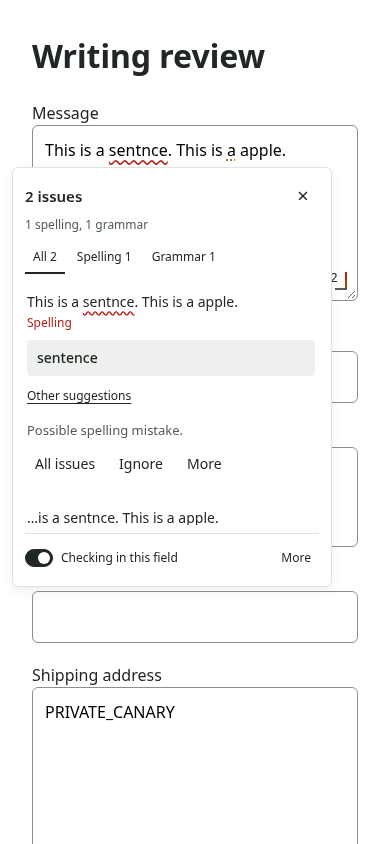
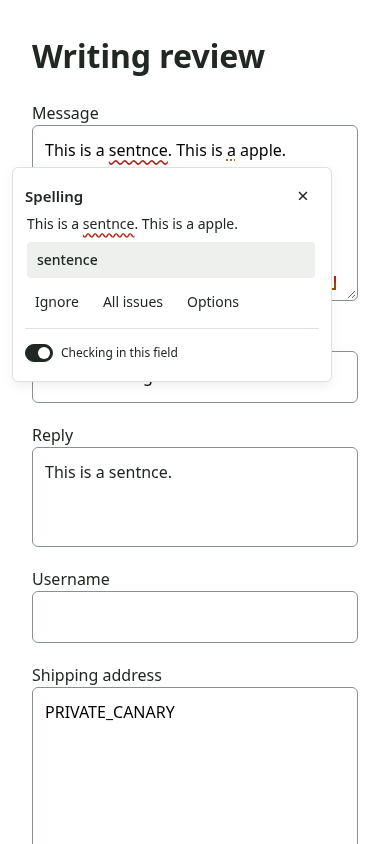
docs(extension): show focused menu and inside-field count

diff --git a/documentation/design/screenshots/browser-extension/README.md b/documentation/design/screenshots/browser-extension/README.md
@@ -2,9 +2,9 @@
 
 ## Margin writing — 27 November 2026
 
-Unsigned product `1.11.37`, source `2896e4126189ca3d965f269e95d1c8e925bbb7f9`
+Unsigned product `1.11.37`, source `dd763c756582562d049cd04dc272478b41b65354`
 on development `79fd5d243`. Chrome ZIP SHA-256:
[2 lines of base64/hex data omitted]
 The accompanying feature PR records the exact reviewed head and checks. Installed
 Chromium `156.0.8078.4`, synthetic English fields, signed out and with Grove network
 requests blocked. These captures are local development evidence, not a store build.
@@ -15,13 +15,27 @@ requests blocked. These captures are local development evidence, not a store bui
 
 Overview is 900 × 720; corrections are 390 × 844; sidebar is 320 × 480. The
 right-angle margin mark carries the current field count. Spelling uses red,
-grammar amber and only a complete current zero uses green. The review remains a
-single unboxed list with one primary replacement, disclosed alternatives and a
-fixed field toggle below its scrolling region. Long lists and short sidebars
+grammar amber and only a complete current zero uses green. The overview remains an
+unboxed list. Selecting an issue switches to a compact correction menu without
+overview counts, filters or other issues. One fix, Ignore, All issues and a single
+Options disclosure replace the former stack of controls. Grammar keeps its useful
+explanation; spelling drops generic filler. Coverage warnings and field On/Off
+remain visible. Long lists and short sidebars
 scroll rather than forcing every issue onto the first screen. The synthetic
 `PRIVATE_CANARY` field is deliberately excluded from reading/checking.
 The compact hit target stays the same size on hover/focus; its native tooltip and
 accessible name provide the complete status without expanding across the editor.
+The mark sits wholly inside the field, clear of the resize handle/scrollbar and
+measured glyphs/caret. Crowded, obscured or unprovable geometry hides it rather than
+moving outside or changing host padding; Alt+Enter and the sidebar remain available.
+
+| Inside-field indicator                                                                                | Focused edit context menu                                                                             |
+| ----------------------------------------------------------------------------------------------------- | ----------------------------------------------------------------------------------------------------- |
+| ![Small semibold count and two category corner strokes inside the textarea](margin-indicator-390.png) | ![One correction, Ignore, All issues, one Options disclosure and field checking](margin-menu-390.png) |
+
+These are crops of the field and actual menu in the same 390px installed viewport,
+not mockups. Earlier count/filters-heavy menu captures remain in Git history at
+`4162c9a9d`; they are not the current design.
 
 The existing Grove palette, system type and mark remain; no new imagery or type
 was introduced. The pass removes coloured row rails, dot-separated copy, repeated
@@ -34,7 +48,9 @@ screenshots, geometry and axe checks provide the browser evidence instead.
 `tests/browser-extension-margin.test.mjs` checks counts/category/partial states,
 native Undo, field pause isolation, rich formatting, sensitive metadata exclusions,
 open shadow roots, CSS-hidden projection barriers, scoped sidebar actions,
-source-order filtering, focus and 280/320/390/768px overflow/accessibility. Native
+source-order filtering, compact selected-mode/Options/Escape, partial warnings,
+inside-input bounds, crowded-field keyboard recovery, focus and
+280/320/390/768px overflow/accessibility. Native
 Firefox `160.0` additionally passed temporary installation, signed-out offline
 Harper textarea checks, native sidebar and synthetic capture/search/reader-copy.
 That smoke does not qualify Firefox rich-text corrections or Undo. Chromium
@@ -44,8 +60,8 @@ rich-editor frameworks remain unqualified. No deployment, provider call or store
 submission is represented.
 
 Visual review: hierarchy 8/10, usability 8/10, identity 8/10. The useful changes are
-the single correction choice, unboxed source-order rows and removal of the
-irrelevant signed-out notice from Writing. At 480px sidebar height the issue list
+the focused correction mode, one secondary disclosure and inside-field mark.
+At 480px sidebar height the issue list
 is intentionally short and scrollable; no claim that every finding fits is made.
 
 ## Earlier compound-word correction
